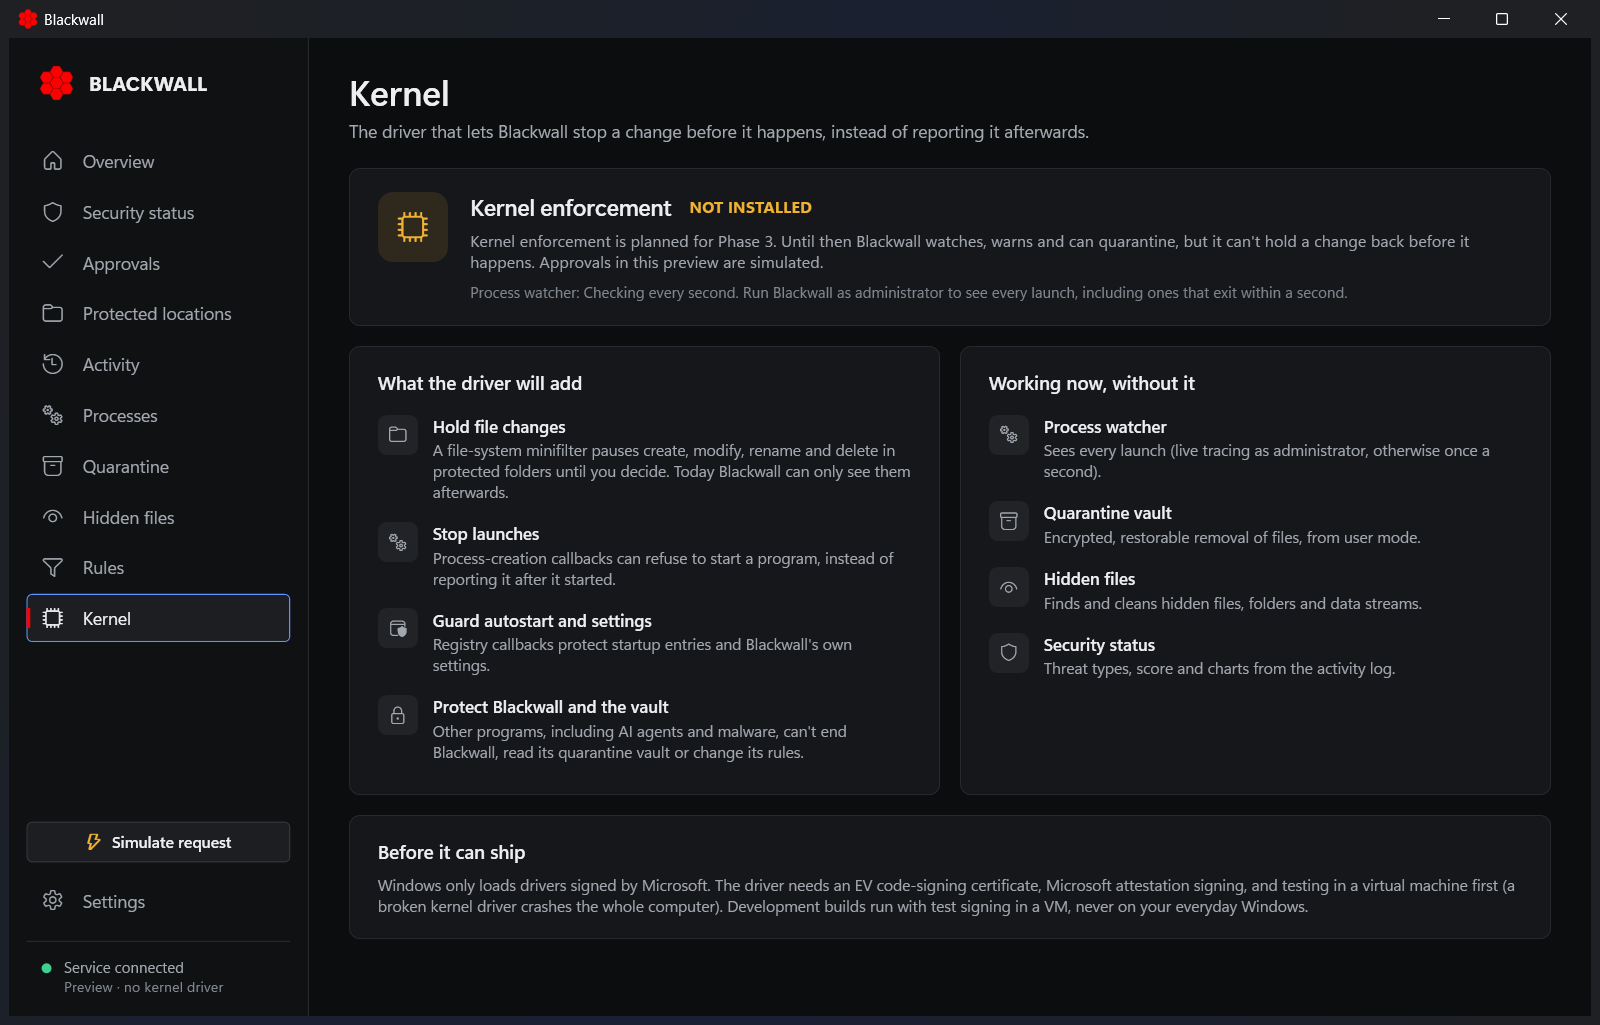
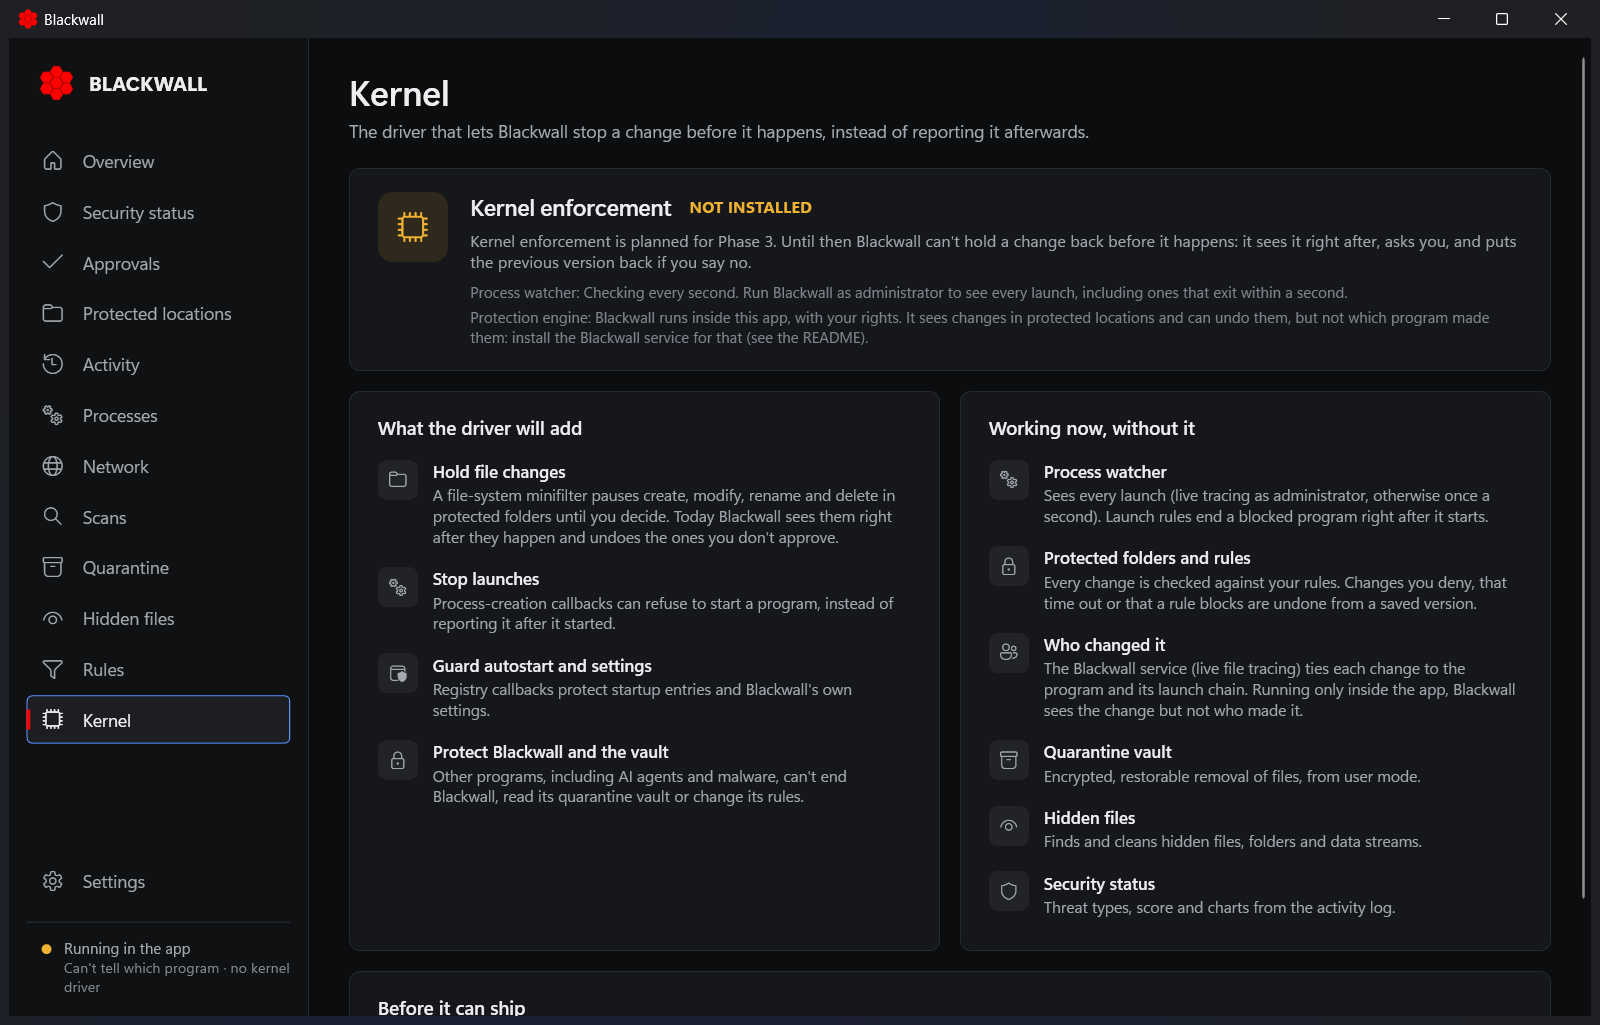
README.me update

diff --git a/README.md b/README.md
@@ -25,24 +25,46 @@ model](https://img.shields.io/badge/model-human--authorized%20actions-2E8B57)
 
 ## Desktop client preview
 
-The Windows client (WPF, .NET 10) and its **protection engine** work on
-real data: protected folders, your rules, approvals, the activity log,
-saved versions with **Undo**, the **process watcher** (live process tree,
-launch chains with each program's own icon and AI-agent names,
-signatures, Task Manager-style CPU, memory and End task), **Hidden files**
-and the **quarantine vault**. The engine runs in the **Blackwall
-service**, which sees which program made each change, or inside the app
-when the service isn't installed. Without the Phase 3 kernel driver it
-can't hold a change back: it sees it right after it happens, asks you,
-and puts the previous version back if you say no. Microsoft Defender
-checks what AI agents and downloaded programs run, a program that
-scrambles many files is stopped and its changes undone, and the Network
-page shows which programs are online. Sample data is still available with
-`Blackwall.exe --demo`. Closed, Blackwall keeps running in
-the notification area and raises Windows notifications for changes. New
-versions are published as GitHub Releases: Blackwall finds them, shows what
-changed, and installs one when you click Install, after checking its
-checksum. Changes are listed in [`CHANGELOG.md`](CHANGELOG.md).
+The Windows app (WPF, .NET 10) and its protection engine work on real
+data. What it does today:
+
+**Protection**
+- **Protected folders and rules.** Every change is checked against your
+  rules. When an AI agent or an unsigned program changes something, you're
+  asked: Allow keeps it, Deny (or no answer) puts the previous version back.
+  Any recorded change can be **undone** later from Activity.
+- **Ransomware detection.** A program that scrambles many files within a
+  minute is ended, and everything it changed is put back.
+- **Malware scanning with Microsoft Defender.** Programs started from
+  Downloads or Temp, the commands AI agents run, and new programs in
+  protected folders are checked; malware is stopped or undone.
+- **USB drives** are scanned when plugged in; optionally, programs on them
+  aren't allowed to run.
+- **Web protection** (optional) blocks known malware sites.
+
+**Seeing what happens**
+- **Activity** and **Security status**: every decision with its reason,
+  threat types (AI agent, Virus, Malware, Hacker, Suspicious), a security
+  score and charts.
+- **Processes**: the live process tree with launch chains, icons, AI-agent
+  names, signatures, and Task Manager-style CPU, memory and End task.
+- **Network**: which programs are online and where, AI agents first, with
+  a per-program block.
+
+**Tools**
+- **Scans**: quick, folder and scheduled scans through Microsoft Defender.
+- **Quarantine**: a "quantum-locked" encrypted vault with a full history
+  and restore.
+- **Try a program safely** in Windows Sandbox, **check a file's
+  reputation**, and find leftovers in **Hidden files**.
+
+It runs as the **Blackwall service**, which sees which program made each
+change, or inside the app when the service isn't installed. Without the
+Phase 3 kernel driver it can't hold a change back; it sees it right after
+it happens and undoes what you don't approve. Closed, it keeps watching
+from the notification area. New versions are offered from GitHub Releases
+and installed when you click Install. Changes are listed in
+[`CHANGELOG.md`](CHANGELOG.md).
 
 ### Install
 
@@ -94,6 +116,8 @@ instead of being undone.
 | ![Approvals page with three held requests, each labelled with its type, and a proposed change](docs/images/approvals.png) | ![Activity log with the result and type of each event](docs/images/activity.png) |
 | **Processes** (live) | **Hidden files** (live) |
 | ![Live process tree filtered to svchost.exe under services.exe, with CPU, memory and I/O columns, End task, and resource use of the selected process](docs/images/processes.png) | ![Hidden files scan of a demo folder: a hidden file, a hidden folder and two hidden data streams](docs/images/hidden-files.png) |
+| **Network** (live) | **Scans** |
+| ![Network page filtered to AI agents: Claude's connections, each with its addresses and a Block button](docs/images/network.png) | ![Scans page: a folder scan with nothing found, Try a program safely, the scheduled scan and the history](docs/images/scans.png) |
 | **Protected locations** | **Kernel** |
 | ![Protected folders with per-folder policies](docs/images/protected-locations.png) | ![Kernel page: enforcement not installed yet, what the driver will add, and what works without it](docs/images/kernel.png) |
 
@@ -465,14 +489,18 @@ Done in user mode first, in this order:
     only, no code).
 4.  **Scans** (built). "Scan this folder" and scheduled scans of Downloads,
     startup entries and protected folders.
-5.  **USB and removable drives:** scan when plugged in, optional "ask
-    before running programs from a USB drive".
-6.  **Sandboxed first run:** start an unknown program in Windows Sandbox
-    instead of on the real system.
-7.  **File reputation (opt-in):** look up a file's hash with a public
-    malware database. Off by default, because it sends the hash out.
-8.  **Web and download protection:** dangerous-site and phishing lists
-    for downloads, via DNS filtering.
+5.  **USB and removable drives** (built): scan when plugged in, and
+    optionally end programs started from a USB drive unless a rule allows
+    them.
+6.  **Sandboxed first run** (built): "Try a program safely" starts it in
+    Windows Sandbox (Windows Pro and up), with no network and its folder
+    read-only.
+7.  **File reputation** (built, on request): "Check reputation" sends only
+    the file's SHA-256 to CIRCL's public database of known files, after
+    asking.
+8.  **Web protection** (built, off by default): known malware sites from
+    URLhaus are blocked through the hosts file. Phishing lists and real DNS
+    filtering come with Phase 5's secure DNS.
 9.  Change previews and file versioning (done), delegated-execution
     detection, policy protection.
 

diff --git a/CHANGELOG.md b/CHANGELOG.md
@@ -13,6 +13,10 @@ under Settings → Updates. Newest first. Versions follow `MAJOR.MINOR.PATCH`.
   changed is put back.
 - **Network page.** Which programs are online and where, AI agents first; a note when an agent or unsigned program
   goes online for the first time; block a program from the network (Windows Firewall, needs the service).
+- **USB drives.** Scanned when plugged in; optionally, programs started from a USB drive are ended unless a rule allows them.
+- **Try a program safely** in Windows Sandbox (Windows Pro and up): no network, its folder read-only.
+- **Check reputation** of a process's file against CIRCL's public database of known files (only the SHA-256 is sent, after asking).
+- **Web protection** (off by default): known malware sites from URLhaus are blocked through the hosts file.
 
 ## 0.2.0
 
